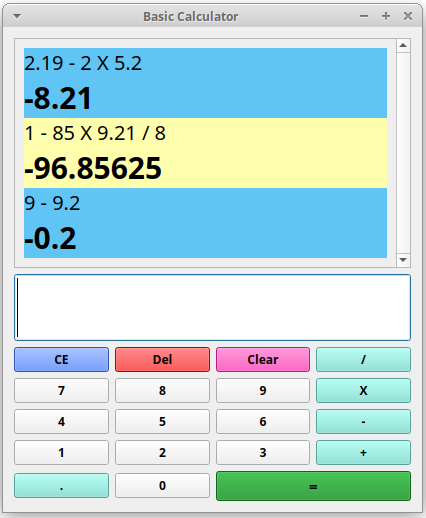
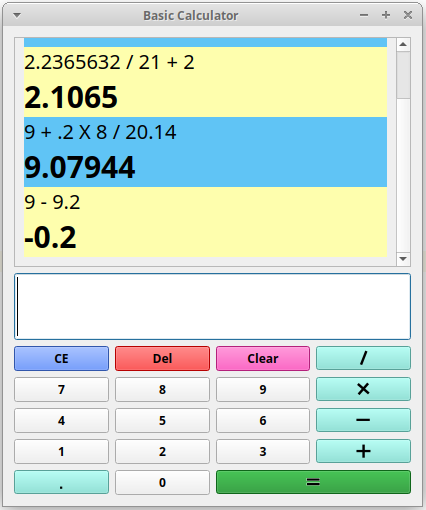
Added symbols to buttons

diff --git a/calculator/ui_elements/buttons_layout.py b/calculator/ui_elements/buttons_layout.py
@@ -8,6 +8,7 @@ from ui_elements.functionality_button import CalculatorCEButton, CalculatorDelBu
 
 HANDLER_CLASS = "handler_class"
 CSS_STYLE_MAP = "css_style_map"
+ICON_PATH = "icon_path"
 
 # [("CE", "Del", "Clear", "/", "Sqr"),
 #  ("7", "8", "9", "X", "Sqrt"),
@@ -27,6 +28,7 @@ BUTTON_ROW_LAYOUT_MAPS = [
             CSS_STYLE_MAP: {BG_COLOR: "#FA2DAC"}}),
         ("/", {
             HANDLER_CLASS: CalculatorMathOperatorButton,
+            ICON_PATH: "Divide_T.png",
             CSS_STYLE_MAP: {BG_COLOR: "#7BE2D5"}})
     )),
     OrderedDict((
@@ -35,6 +37,7 @@ BUTTON_ROW_LAYOUT_MAPS = [
         ("9", {HANDLER_CLASS: CalculatorNumberButton}),
         ("X", {
             HANDLER_CLASS: CalculatorMathOperatorButton,
+            ICON_PATH: "Multiply_T.png",
             CSS_STYLE_MAP: {BG_COLOR: "#7BE2D5"}})
     )),
     OrderedDict((
@@ -43,6 +46,7 @@ BUTTON_ROW_LAYOUT_MAPS = [
         ("6", {HANDLER_CLASS: CalculatorNumberButton}),
         ("-", {
             HANDLER_CLASS: CalculatorMathOperatorButton,
+            ICON_PATH: "Minus_T.png",
             CSS_STYLE_MAP: {BG_COLOR: "#7BE2D5"}})
     )),
     OrderedDict((
@@ -51,15 +55,18 @@ BUTTON_ROW_LAYOUT_MAPS = [
         ("3", {HANDLER_CLASS: CalculatorNumberButton}),
         ("+", {
             HANDLER_CLASS: CalculatorMathOperatorButton,
+            ICON_PATH: "Plus_T.png",
             CSS_STYLE_MAP: {BG_COLOR: "#7BE2D5"}})
     )),
     OrderedDict((
         (".", {
             HANDLER_CLASS: CalculatorNumberButton,
+            ICON_PATH: "Dot_T.png",
             CSS_STYLE_MAP: {BG_COLOR: "#7BE2D5"}}),
         ("0", {HANDLER_CLASS: CalculatorNumberButton}),
         ("=", {
             HANDLER_CLASS: CalculatorEvaluateButton,
+            ICON_PATH: "Equal_T.png",
             CSS_STYLE_MAP: {BG_COLOR: "#158F24", FONT_SIZE: "15px"}})
     ))
 ]

diff --git a/calculator/ui_elements/buttons_base.py b/calculator/ui_elements/buttons_base.py
@@ -1,5 +1,6 @@
 
 from PyQt5.QtWidgets import QPushButton
+from PyQt5.QtGui import QIcon
 
 from ui_elements.css_constants import FONT_WEIGHT, BOLD
 from .elements_base import CalculatorElementBase
@@ -7,16 +8,28 @@ from .elements_base import CalculatorElementBase
 
 class CalculatorButtonBase(CalculatorElementBase):
 
-    def __init__(self, button_name, output_display, input_box):
+    base_icon_folder = "ui_elements/images/"
+
+    def __init__(self, button_name, icon_file, output_display, input_box):
         super().__init__(button_name, QPushButton(button_name))
 
         self.output_display = output_display
         self.input_box = input_box
+        self.icon_file = icon_file
+
+        self._set_icon()
 
         # Register Action methods
         self.element.clicked.connect(lambda: self.on_click_action())
         self.element.pressed.connect(lambda: self.on_press_action())
         self.element.released.connect(lambda: self.on_release_action())
+
+    def _set_icon(self):
+        print("Icon File path : {}".format(self.icon_file))
+        if self.icon_file:
+            self.element.setIcon(QIcon(self.base_icon_folder + self.icon_file))
+            self.element.setText("")
+            print("Icon set done for :{}".format(self.name))
 
     def on_click_action(self):
         raise NotImplementedError

diff --git a/calculator/main.py b/calculator/main.py
@@ -7,7 +7,7 @@ from importlib import reload
 from PyQt5.QtWidgets import QWidget, QApplication, QGridLayout, QVBoxLayout
 
 # Tool Specific Import
-from ui_elements.buttons_layout import BUTTON_ROW_LAYOUT_MAPS, HANDLER_CLASS, CSS_STYLE_MAP
+from ui_elements.buttons_layout import BUTTON_ROW_LAYOUT_MAPS, HANDLER_CLASS, CSS_STYLE_MAP, ICON_PATH
 from ui_elements.buttons_base import CalculatorButtonBase
 from ui_elements.input_box import CalculatorInputBox
 from ui_elements.output_display import CalculatorOutputDisplay
@@ -58,8 +58,9 @@ class ApplicationWindow(QWidget):
                 # Now set the buttons to their positions
                 button_details = row_layout_map[btn_item]
                 handler_class = button_details.get(HANDLER_CLASS, CalculatorButtonBase)
+                icon_file_path = button_details.get(ICON_PATH, None)
                 
-                button = handler_class(btn_item, self.output_display, self.input_box)
+                button = handler_class(btn_item, icon_file_path, self.output_display, self.input_box)
                 button.prepare_and_set_css_style(button_details.get(CSS_STYLE_MAP, dict()))
 
                 self.g_layout.addWidget(button.element, r, c, row_width, col_width)
